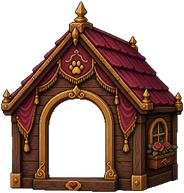
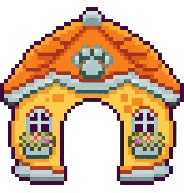
better sprites and pet resting

diff --git a/frontend/src/app/dashboard/pet-habitat.ts b/frontend/src/app/dashboard/pet-habitat.ts
@@ -2,10 +2,13 @@ import {
   ChangeDetectionStrategy,
   Component,
   HostListener,
+  computed,
   inject,
   signal,
 } from '@angular/core';
 import { CozyItem, CozyItemType } from './pets/cozy-types';
+import { PetMoodService } from './pets/pet-mood.service';
+import { PetService } from './pet.service';
 import {
   COZY_CATALOG,
   COZY_ITEMS,
@@ -19,7 +22,7 @@ import {
     <div class="cozy-back" aria-hidden="true">
       @for (item of cozy.items(); track item.id) {
         <span class="cozy-item" [class]="item.type" [class.off]="item.type === 'tv' && !item.enabled" [style]="itemStyle(item)">
-          <i class="body"></i><i class="detail"></i>
+          <i class="body"></i><i class="detail"></i>@if (item.type === 'bowl') { <b class="bowl-name">{{ bowlName() }}</b> }
         </span>
       }
       @if (preview(); as item) {
@@ -31,7 +34,7 @@ import {
 
     <div class="cozy-front" aria-hidden="true">
       @for (item of cozy.items(); track item.id) {
-        @if (item.type !== 'tv') {
+        @if (item.type === 'house') {
           <span class="front-piece" [class]="item.type" [style]="itemStyle(item)"></span>
         }
       }
@@ -117,9 +120,8 @@ import {
       .body { display: none; }
       .detail { position: absolute; display: none; }
       .tv .detail { display: block; left: 20px; top: 39px; width: 70px; height: 49px; border-radius: 8px; opacity: .72; background: repeating-linear-gradient(0deg,var(--theme-primary) 0 5px,var(--theme-primary-bright) 5px 9px); animation: tv-flicker .8s steps(2) infinite; mix-blend-mode: screen; }
+      .bowl-name { position: absolute; left: 50%; top: 47px; max-width: 104px; transform: translateX(-50%); overflow: hidden; color: #fff4d6; font: 700 8px/10px var(--theme-font-display); text-shadow: 1px 1px 0 #3b193e, -1px 0 #3b193e, 0 -1px #3b193e; white-space: nowrap; text-overflow: ellipsis; text-align: center; }
       .tv.off .detail { display: none; }
-      .front-piece.bed { clip-path: inset(75% 0 0); }
-      .front-piece.cushion { clip-path: inset(68% 0 0); }
       .preview { opacity: .58; filter: drop-shadow(0 0 5px var(--theme-primary-bright)); }
       .cozy-trigger { position: fixed; left: 112px; top: 16px; z-index: 48; display: grid; width: 40px; height: 40px; place-items: center; pointer-events: auto; border: 1px solid var(--theme-border-strong); border-radius: var(--control-radius); background: var(--theme-panel); color: var(--theme-primary); box-shadow: var(--theme-shadow-soft); font-size: 20px; cursor: pointer; }
       .cozy-trigger:hover,.cozy-trigger.active { color: var(--theme-primary-bright); border-color: var(--theme-primary); }
@@ -149,6 +151,9 @@ import {
 })
 export class PetHabitat {
   readonly cozy = inject(PetCozyService);
+  private readonly mood = inject(PetMoodService);
+  private readonly pets = inject(PetService);
+  readonly bowlName = computed(() => this.mood.name() || this.pets.kind()?.label || 'Pet');
   readonly catalog = COZY_ITEMS;
   readonly activeType = signal<CozyItemType>('bed');
   readonly preview = signal<CozyItem | null>(null);

diff --git a/frontend/src/styles.css b/frontend/src/styles.css
@@ -642,35 +642,35 @@ body {
  * both dev and production. Runtime code only chooses a class and sheet cell.
  */
 .pet-sprite-capy {
-  background-image: url('./app/dashboard/pets/capy/capy-interactions-v6.png');
+  background-image: url('./app/dashboard/pets/capy/capy-interactions-v7.png');
 }
 
 .pet-sprite-collie {
-  background-image: url('./app/dashboard/pets/collie/collie-interactions-v6.png');
+  background-image: url('./app/dashboard/pets/collie/collie-interactions-v7.png');
 }
 
 .pet-sprite-frog {
-  background-image: url('./app/dashboard/pets/frog/frog-interactions-v6.png');
+  background-image: url('./app/dashboard/pets/frog/frog-interactions-v7.png');
 }
 
 .pet-sprite-shadow-cat {
-  background-image: url('./app/dashboard/pets/shadow-cat/shadow-cat-interactions-v6.png');
+  background-image: url('./app/dashboard/pets/shadow-cat/shadow-cat-interactions-v7.png');
 }
 
 .pet-sprite-ginger {
-  background-image: url('./app/dashboard/pets/ginger/ginger-interactions-v1.png');
+  background-image: url('./app/dashboard/pets/ginger/ginger-interactions-v2.png');
 }
 
 .pet-sprite-blue-kit {
-  background-image: url('./app/dashboard/pets/blue-kit/blue-kit-interactions-v1.png');
+  background-image: url('./app/dashboard/pets/blue-kit/blue-kit-interactions-v2.png');
 }
 
 .pet-sprite-diplodocus {
-  background-image: url('./app/dashboard/pets/diplodocus/diplodocus-interactions-v1.png');
+  background-image: url('./app/dashboard/pets/diplodocus/diplodocus-interactions-v2.png');
 }
 
 .pet-sprite-pigeon {
-  background-image: url('./app/dashboard/pets/pigeon/pigeon-interactions-v1.png');
+  background-image: url('./app/dashboard/pets/pigeon/pigeon-interactions-v2.png');
 }
 
 .cozy-item.bed,
@@ -690,6 +690,10 @@ body {
 
 .cozy-item.tv {
   background-image: url('./app/dashboard/pets/cozy/assets/cozy-tv.png');
+}
+
+.cozy-item.bowl {
+  background-image: url('./app/dashboard/pets/cozy/assets/cozy-bowl.png');
 }
 
 .fetch-ball-sprite {

diff --git a/frontend/src/app/dashboard/pets/pet-cozy.service.ts b/frontend/src/app/dashboard/pets/pet-cozy.service.ts
@@ -18,7 +18,8 @@ export const COZY_CATALOG: Readonly<Record<CozyItemType, CozyItemDefinition>> = 
     glyph: 'Zz',
     width: 184,
     height: 152,
-    sleepAnchor: { x: 92, y: 106 },
+    // The pet position is its sprite's top edge; place it over the open cushion.
+    sleepAnchor: { x: 92, y: 46 },
   },
   house: {
     type: 'house',
@@ -34,7 +35,7 @@ export const COZY_CATALOG: Readonly<Record<CozyItemType, CozyItemDefinition>> = 
     glyph: 'o',
     width: 160,
     height: 100,
-    sleepAnchor: { x: 80, y: 58 },
+    sleepAnchor: { x: 80, y: 28 },
   },
   tv: {
     type: 'tv',
@@ -43,6 +44,10 @@ export const COZY_CATALOG: Readonly<Record<CozyItemType, CozyItemDefinition>> = 
     width: 126,
     height: 127,
     watchAnchor: { x: 63, y: 154 },
+  },
+  bowl: {
+    type: 'bowl', label: 'Food bowl', glyph: '♡', width: 120, height: 74,
+    foodAnchor: { x: 60, y: 64 },
   },
 };
 
@@ -108,6 +113,7 @@ export class PetCozyService {
     if (this.cachedSnapshot && this.cachedItems === items) return this.cachedSnapshot;
     const sleepSpots: CozyActivityAnchor[] = [];
     const watchSpots: CozyActivityAnchor[] = [];
+    const foodSpots: CozyActivityAnchor[] = [];
     for (const item of items) {
       const definition = COZY_CATALOG[item.type];
       if (definition.sleepAnchor) {
@@ -126,9 +132,10 @@ export class PetCozyService {
           faceY: item.y + definition.height / 2,
         });
       }
+      if (definition.foodAnchor) foodSpots.push({ itemId: item.id, x: item.x + definition.foodAnchor.x, y: item.y + definition.foodAnchor.y });
     }
     this.cachedItems = items;
-    this.cachedSnapshot = { items, sleepSpots, watchSpots };
+    this.cachedSnapshot = { items, sleepSpots, watchSpots, foodSpots };
     return this.cachedSnapshot;
   }
 

diff --git a/frontend/src/app/dashboard/pets/pet-state.ts b/frontend/src/app/dashboard/pets/pet-state.ts
@@ -206,6 +206,29 @@ export class EatState extends PetState {
   }
 }
 
+/** Walk to the food bowl when hungry, then play the species eating strip. */
+export class BowlState extends PetState {
+  private target: CozyActivityAnchor | null = null;
+  private settled = false;
+  override get name(): string { return this.settled ? 'eat' : 'walk'; }
+  override enter(pet: Pet, ctx: PetContext): void {
+    this.duration = 1.8;
+    this.target = nearestAnchor(pet, ctx.cozy?.foodSpots ?? []);
+    if (!this.target) this.settled = true;
+  }
+  protected tick(pet: Pet, ctx: PetContext): PetState | null {
+    if (!this.settled && this.target) {
+      const arrived = movePet(pet, ctx, this.target.x - pet.width / 2, this.target.y, pet.personality.speed * 1.1);
+      if (!arrived) return null;
+      this.settled = true;
+      this.elapsed = 0;
+    }
+    pet.clampPosition(ctx);
+    return this.elapsed > this.duration ? pet.newRest() : null;
+  }
+  pose(): PetPose { return this.settled ? { bubble: '♥' } : {}; }
+}
+
 /** A short, calm picked-up pose while the user is carrying the pet. */
 export class HeldState extends PetState {
   readonly name = 'held';

diff --git a/frontend/src/app/dashboard/pets/pet.ts b/frontend/src/app/dashboard/pets/pet.ts
@@ -11,6 +11,7 @@ import {
   RestState,
   SleepState,
   WatchState,
+  BowlState,
   WalkState,
 } from './pet-state';
 import {
@@ -87,6 +88,7 @@ export abstract class Pet {
   }
   newWatch(): PetState { return new WatchState(); }
   newEat(): PetState { return new EatState(); }
+  newBowl(): PetState { return new BowlState(); }
   newPlay(): PetState { return new PlayState(); }
   newCurious(): PetState { return new CuriousState(); }
   newHeld(): PetState { return new HeldState(); }
@@ -110,6 +112,7 @@ export abstract class Pet {
     const expression = Math.random();
     if (expression < .14) return this.newCurious();
     if (expression < .26 && ctx.cozy?.watchSpots.length) return this.newWatch();
+    if (ctx.cozy?.foodSpots.length && energy < .48 && expression < .72) return this.newBowl();
     const roll = Math.random();
     const playChance = ctx.pointer.active ? p.playfulness * (.4 + energy) : 0;
     const sleepChance = p.sleepiness + (1 - energy) * .5;

diff --git a/frontend/src/app/dashboard/pets/pet.spec.ts b/frontend/src/app/dashboard/pets/pet.spec.ts
@@ -185,6 +185,7 @@ describe('desktop pet actions', () => {
           { itemId: 'near', x: 240, y: 520 },
         ],
         watchSpots: [],
+        foodSpots: [],
       },
     });
     pet.update(ctx);
@@ -214,7 +215,7 @@ describe('desktop pet actions', () => {
     const watchSpot = { itemId: 'tv', x: 360, y: 420, faceX: 360, faceY: 260 };
     const ctx = context({
       dt: .1,
-      cozy: { items: [], sleepSpots: [], watchSpots: [watchSpot] },
+      cozy: { items: [], sleepSpots: [], watchSpots: [watchSpot], foodSpots: [] },
     });
     pet.update(ctx);
     pet.setState(pet.newWatch(), ctx);
@@ -224,7 +225,7 @@ describe('desktop pet actions', () => {
     expect(pet.direction).toBe('up');
 
     pet.update(context({
-      cozy: { items: [], sleepSpots: [], watchSpots: [] },
+      cozy: { items: [], sleepSpots: [], watchSpots: [], foodSpots: [] },
     }));
     expect(pet.stateName).toBe('rest');
   });

diff --git a/frontend/src/app/dashboard/pets/cozy-types.ts b/frontend/src/app/dashboard/pets/cozy-types.ts
@@ -1,4 +1,4 @@
-export type CozyItemType = 'bed' | 'house' | 'cushion' | 'tv';
+export type CozyItemType = 'bed' | 'house' | 'cushion' | 'tv' | 'bowl';
 
 export interface CozyItem {
   id: string;
@@ -16,6 +16,7 @@ export interface CozyItemDefinition {
   height: number;
   sleepAnchor?: { x: number; y: number };
   watchAnchor?: { x: number; y: number };
+  foodAnchor?: { x: number; y: number };
 }
 
 export interface CozyBounds {
@@ -37,5 +38,5 @@ export interface CozySnapshot {
   items: readonly CozyItem[];
   sleepSpots: readonly CozyActivityAnchor[];
   watchSpots: readonly CozyActivityAnchor[];
+  foodSpots: readonly CozyActivityAnchor[];
 }
-

diff --git a/frontend/src/app/dashboard/pets/ACTION-ATLAS-PROMPTS.md b/frontend/src/app/dashboard/pets/ACTION-ATLAS-PROMPTS.md
@@ -76,3 +76,22 @@ Identity constraints:
   underside, darker spots, small friendly head, long neck, and tapering tail.
 - Pigeon: plump gray city pigeon with dark wing bars, green-purple neck
   iridescence, ruby eyes, pink-red feet, ground waddles, and brief play flutters.
+
+## Continuity refinement (v7 / v2)
+
+The production atlases were audited at their actual 80 CSS-pixel display size.
+Strong core frames remain unchanged. The four original companions now use v7
+atlases; Ginger, Blue Kit, Diplo, and Pigeon use v2.
+
+- Capy, Lando, Frog, and Shadow Kit play rows 10–11 were uniformly enlarged
+  per species and recentered on their shared ground baseline. A single scale
+  is used across each full eight-frame sequence so pose changes do not cause
+  additional frame-by-frame zooming.
+- Shadow Kit's accidentally undersized idle frame 2 and walk-right frame 2
+  were restored to the scale of their surrounding frames.
+- Delivery row 19 is the exact reverse of pickup row 14 for every companion.
+  This removes missing or miniature subjects and makes pickup/delivery a
+  matched, continuous interaction without introducing identity drift.
+- All atlases retain the 4-by-20, 128-by-128-cell contract. Existing timing,
+  state mappings, directional carry rows, and transparent reserved rows are
+  unchanged.
